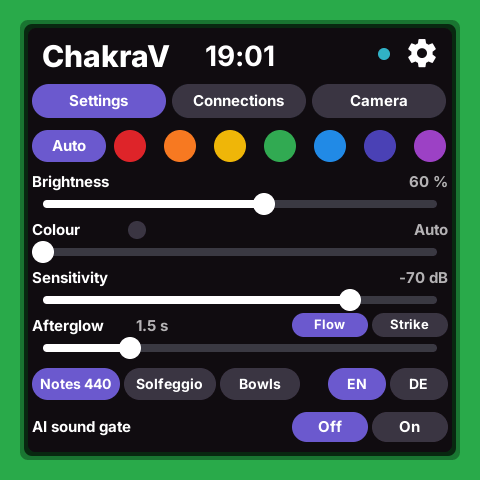
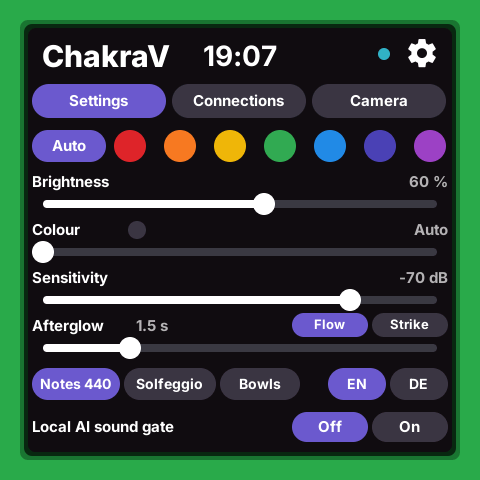
Local AI sound gate as in Chakra: the gate leads only while it speaks; README: why two apps
- From Chakra Detection 676670f, so the lamp-facing code stays the same in both apps: the
  setting is "Local AI sound gate" / "Lokaler KI-Klangfilter"; while no gate has spoken for 5 s
  the detection leads alone (GATE_ALIVE_TICKS); the lamps go towards white with a kick, and a
  strike in silence lights the last colour.
- chakra_feed.py: without the gate's venv it runs on without the gate; if the gate ends, the
  audio stays halved to 16 kHz (it used to go on at 32 kHz, a wrong pitch).
- README (EN, DE): many people in yoga and sound healing want no AI or only local AI, which is
  what Chakra is for; ChakraV is explicitly the experimental one. The light is shared code.

Changed region(s): [[0.4062, 0.0938, 0.5938, 0.1562], [0.0625, 0.875, 0.375, 0.9062]]

diff --git a/components/app_chakra/chakra_core.c b/components/app_chakra/chakra_core.c
@@ -15,6 +15,7 @@
 #define FADE_STRIKE 0.35f      // about 0.3 s
 #define FADE_AI 0.03f          // with the AI gate: about 3 s, the softest of the three
 #define AI_HOLD_TICKS 50       // a bowl verdict lets the colour change for 2 s
+#define GATE_ALIVE_TICKS 125   // no verdict for 5 s: the gate is gone and the detection leads alone again
 #define KICK_DECAY 0.90f       // the strike kick fades to a tenth in about 0.9 s
 #define KICK_WHITE 0.35f       // how far a full kick pushes the colour towards white
 #define KICK_BRIGHT 40         // and the lamps' brightness up, in percent points
@@ -48,12 +49,12 @@ static const char *const TEXT[2][S_COUNT] = {
     {"Ready", "Strike a bowl or hum", "Brightness", "Sensitivity", "Afterglow", "Notes", "not paired",
      "Home Assistant", "Hue", "Wi-Fi", "Bluetooth", "Screen lamp", "Hold: close ChakraV", "Closing ChakraV", "Bowls",
      "Strike your %s bowl", "hold the tone", "Flow", "Strike", "Settings", "Connections", "Auto", "Colour",
-     "AI sound gate", "Off", "On", "Camera", "Boxes", "Frame rate", "Source", "Waiting for camera", "Camera off",
+     "Local AI sound gate", "Off", "On", "Camera", "Boxes", "Frame rate", "Source", "Waiting for camera", "Camera off",
      "Bowl", "Other", "Quiet", "Tone", "Nothing", "Boxes off", "Cloud AI"},
     {"Bereit", "Schale anschlagen", "Helligkeit", "Empfindlichkeit", "Nachklang", "Noten",
      "nicht gekoppelt", "Home Assistant", "Hue", "WLAN", "Bluetooth", "Bildschirm-Lampe", "Halten: ChakraV schließen",
      "ChakraV wird geschlossen", "Schalen", "%s-Schale anschlagen", "Ton halten", "Fließen", "Anschlag",
-     "Einstellungen", "Anbindungen", "Auto", "Farbe", "KI-Klangfilter", "Aus", "An", "Kamera", "Boxen", "Bildrate",
+     "Einstellungen", "Anbindungen", "Auto", "Farbe", "Lokaler KI-Klangfilter", "Aus", "An", "Kamera", "Boxen", "Bildrate",
      "Quelle", "Warte auf Kamera", "Kamera aus", "Schale", "Anderes", "Still", "Ton", "Nichts", "Boxen aus",
      "Cloud-KI"},
 };
@@ -102,8 +103,11 @@ struct chakra_core {
     int bar_next;                    // the bar the next spectrum pass starts with
     uint32_t ticks, sub_tick;
     uint32_t bowl_tick;   // the tick of the AI gate's last bowl verdict (settings.ai)
+    uint32_t gate_tick;   // the tick of the gate's last verdict of any kind
+    bool gate_heard;      // whether the gate has spoken at all: without it the setting changes nothing
     bool bowl_heard;      // whether there was one at all
     float kick;           // the strike kick now, 1 at a strike, decaying to 0
+    int last_shown;       // the last chakra that had a colour: a kick in silence lights that one
     chakra_reading_t last;
     int learn;            // bowl being learned 0..6, -1 when not learning
     uint32_t learn_ms;
@@ -675,8 +679,18 @@ static void light(struct chakra_core *c)
                         c->cfg.ctx);
         return;
     }
-    const chakra_info_t *info = chakra_info(c->shown);
-    c->cfg.on_light(c->shown, info ? info->rgb : 0, bright, c->cfg.ctx);
+    const int which = c->shown >= 0 ? c->shown : c->kick > 0.0f ? c->last_shown : -1;
+    const chakra_info_t *info = chakra_info(which);
+    uint32_t rgb = info ? info->rgb : 0;
+    if (rgb && c->kick > 0.0f) {  // the lamps go towards white with the kick, as the screen does
+        uint32_t mixed = 0;
+        for (int sh = 16; sh >= 0; sh -= 8) {
+            const float v = (float)((rgb >> sh) & 0xFF);
+            mixed = (mixed << 8) | (uint32_t)(v + (255.0f - v) * KICK_WHITE * c->kick + 0.5f);
+        }
+        rgb = mixed;
+    }
+    c->cfg.on_light(which, rgb, bright, c->cfg.ctx);
 }
 
 /* A new colour choice: the background, the lamps and the settings follow at once. */
@@ -1032,10 +1046,14 @@ static void tick(esp_gsp_handle_t ui, void *ctx)
         c->sounding = sounding;
         /* With the AI gate, only a bowl-like sound may change the colour: a gong or a drum that
          * the detection reads as a tone keeps the colour and kicks the light instead. */
-        const bool ai_blocks = c->s.ai && r.chakra >= 0 &&
+        const bool gate_live = c->gate_heard && c->ticks - c->gate_tick <= GATE_ALIVE_TICKS;
+        const bool ai_blocks = c->s.ai && gate_live && r.chakra >= 0 &&
                                (!c->bowl_heard || c->ticks - c->bowl_tick > AI_HOLD_TICKS);
         if (r.chakra != c->shown && !ai_blocks) {
             const bool from_silence = c->shown < 0;
+            if (r.chakra >= 0) {
+                c->last_shown = r.chakra;
+            }
             c->shown = r.chakra;
             draw_chakra(c, r.chakra);
             c->sub_tick = c->ticks;
@@ -1072,6 +1090,8 @@ void chakra_core_set_sound(chakra_core_handle_t c, int kind, int strike)
     if (!c) {
         return;
     }
+    c->gate_tick = c->ticks;
+    c->gate_heard = true;
     c->heard_kind = kind;
     c->heard_ms = now(c) ? now(c) : 1;
     if (!c->s.ai) {
@@ -1236,6 +1256,7 @@ esp_gsp_err_t chakra_core_create(esp_gsp_handle_t ui, const chakra_core_config_t
     c->ui = ui;
     c->shown = -1;
     c->learn = -1;
+    c->last_shown = -1;
     c->tune_drawn = -1;
     if (config) {
         c->cfg = *config;

diff --git a/tools/chakra_feed.py b/tools/chakra_feed.py
@@ -149,7 +149,11 @@ def ffmpeg(args, rate=RATE):
 
 
 def start_gate(port):
-    """tools/ai_gate.py with its stdout forwarded line by line to the simulator's AI port."""
+    """tools/ai_gate.py with its stdout forwarded line by line to the simulator's AI port; None (and
+    the feeder runs on without it) when the venv is missing."""
+    if not os.path.exists(AI_VENV):
+        print(f"no AI venv at {AI_VENV}: running without the local AI sound gate", flush=True)
+        return None
     gate = subprocess.Popen([AI_VENV, os.path.join(os.path.dirname(os.path.abspath(__file__)), "ai_gate.py")],
                             stdin=subprocess.PIPE, stdout=subprocess.PIPE, stderr=subprocess.DEVNULL)
 
@@ -227,11 +231,12 @@ def main():
         else:
             src = ["-f", "avfoundation", "-i", ":0"] if a.mode == "mic" else ["-re", "-i", a.arg]
             gate = start_gate(a.ai_port) if a.ai else None
-            proc = ffmpeg(src, AI_RATE if gate else RATE)
+            halving = gate is not None  # the rate stays what ffmpeg was started with, even if the gate dies
+            proc = ffmpeg(src, AI_RATE if halving else RATE)
             print(("microphone open, Ctrl-C stops" if a.mode == "mic" else f"playing {a.arg}")
                   + (" (with the AI sound gate)" if gate else ""), flush=True)
             while True:
-                data = proc.stdout.read(HOP * 2 * (2 if gate else 1))
+                data = proc.stdout.read(HOP * 2 * (2 if halving else 1))
                 if not data:
                     break
                 if gate:
@@ -239,7 +244,8 @@ def main():
                         gate.stdin.write(data)
                         gate.stdin.flush()
                     except OSError:
-                        gate = None
+                        gate = None  # the gate ended: the app goes on with the detection alone
+                if halving:
                     data = halve(data)
                 sock.sendall(data)
     except KeyboardInterrupt:

diff --git a/components/app_chakra/ui/make_scene.py b/components/app_chakra/ui/make_scene.py
@@ -69,7 +69,7 @@ STRINGS = [
     "Wurzel", "Sakral", "Solarplexus", "Herz", "Hals", "Stirn", "Krone",
     "Ready", "Strike a bowl or hum", " ct", "+", ".", ",", "Bereit", "Schale anschlagen", "Hz", "dB", "%", " s", " · ",
     "Settings", "Einstellungen", "Connections", "Anbindungen", "Camera", "Kamera", "Auto", "Colour", "Farbe", "°",
-    "AI sound gate", "KI-Klangfilter", "Off", "On", "Aus", "An", "Boxes", "Boxen", "Frame rate", "Bildrate", "fps",
+    "Local AI sound gate", "Lokaler KI-Klangfilter", "Off", "On", "Aus", "An", "Boxes", "Boxen", "Frame rate", "Bildrate", "fps",
     "Source", "Quelle", "Cloud AI", "Cloud-KI", "beta", "cloud stub", "Mac camera", "Mac-Kamera", "No camera yet", "Noch keine Kamera", "Waiting for camera",
     "Warte auf Kamera", "Camera off", "Kamera aus", "Bowl", "Schale", "Other", "Anderes", "Quiet", "Still", "Tone",
     "Ton", "Nothing", "Nichts", "Boxes off", "Boxen aus", "Singing bowl", "Klangschale", "Tuning fork", "Stimmgabel",
@@ -272,7 +272,7 @@ def settings():
             bg_color=ON if i in (0, 3) else OFF, bind=b, bind_target="color", **ev)
         text(f"lbl_{b}", b, 0, 6, ws[i], 20, 14, BOLD, WHITE, align="center",
              sample=label if label != "Notes" else "Notes 440")
-    text("lbl_ai", "grp_page_set", lx, 337, 200, 20, 15, BOLD, WHITE, sample="AI sound gate", overflow="ellipsis")
+    text("lbl_ai", "grp_page_set", lx, 337, 200, 20, 15, BOLD, WHITE, sample="Local AI sound gate", overflow="ellipsis")
     for j, (b, lab) in enumerate([("ai_off", "Off"), ("ai_on", "On")]):
         option(b, "grp_page_set", lx + pw - 156 + j * 80, 332, 76, 30, lab, chosen=j == 0)
 

diff --git a/components/app_chakra/include/chakra_core.h b/components/app_chakra/include/chakra_core.h
@@ -112,10 +112,11 @@ esp_gsp_err_t chakra_core_destroy(chakra_core_handle_t *handle);
 void chakra_core_set_clock(chakra_core_handle_t c, const char *hhmm);
 void chakra_core_set_connection(chakra_core_handle_t c, int state);
 
-/* What the AI sound gate hears now. The heard pill always shows it; with settings.ai on it also
- * leads: a bowl-like sound lets the detection change the colour for the next AI_HOLD; anything
+/* What the local AI sound gate hears now. The heard pill always shows it; with settings.ai on it
+ * also leads: a bowl-like sound lets the detection change the colour for the next 2 s; anything
  * else keeps the colour, and an onset of it (strike = 1: a gong, a drum) kicks the light brighter
- * for about a second instead. */
+ * for about a second instead. While no gate has spoken for 5 s (none running, or it stopped), the
+ * detection leads alone, so the setting can never leave the room without colour. */
 enum { CHAKRA_SOUND_NONE, CHAKRA_SOUND_BOWL, CHAKRA_SOUND_OTHER };
 void chakra_core_set_sound(chakra_core_handle_t c, int kind, int strike);
 /** The lamp list, at most CHAKRA_LAMPS; ticks on unpaired lamps are cleared. UI task only. */

diff --git a/README.md b/README.md
@@ -11,19 +11,27 @@ German: [README.de.md](README.de.md).
 
 ## Which one?
 
-| | [Chakra Detection](https://github.com/leopardcodeai/chakra-detection) | ChakraV (this) |
-|---|---|---|
-| For | sound healing rooms where a camera is not wanted | trying out what a camera adds |
-| Senses | microphone | microphone and camera |
-| AI | optional AI sound gate | on-device AI first, cloud models with your own key to compare |
-| Maturity | tested against real recordings | experimental, v0 |
-| Privacy | no picture ever | the picture stays on the device; the cloud is off unless you switch it on |
+There are two apps, from the same code. In yoga and sound healing many people want no AI at all, or only
+AI that stays in the room: **[Chakra Detection](https://github.com/leopardcodeai/chakra-detection) is built
+for that.** It works without any AI, its one AI feature runs locally on the device, and it has no camera and
+no cloud. **ChakraV is explicitly the experimental one**: it tries what a camera and bigger models can add.
 
-If you do not need the camera, take Chakra.
+| | [Chakra Detection](https://github.com/leopardcodeai/chakra-detection) | ChakraV (this one) |
+|---|---|---|
+| Listens | microphone | microphone and camera |
+| AI | none needed; an optional local AI sound gate, on the device only | as much on the device as the ESP32-S31 runs, plus optional cloud models with your own API key |
+| For | rooms where a camera is not wanted: the classic, private choice | experiments: what can it see and mark? |
+| Maturity | tested against real recordings | v0 |
+
+If you do not need the camera, or want no AI beyond the device, take Chakra.
+
+**The light is the same in both.** Glow, strike kick, fades, the screen lamp, the colour settings and
+every lamp setting come from the same core code (`chakra_core.c`: `animate()`, `light()`, the colour and
+lamp pages), and a change to them is made in both apps.
 
 | Live view | Settings | Camera | Connections |
 |---|---|---|---|
-| ![Frame in the Heart's green, the demo scene with three marked instruments, Heart F3 174.6 Hz, heard Tone, seen Singing bowl](docs/screen_main.png) | ![Colour, brightness, sensitivity, afterglow, mapping, language, AI sound gate](docs/screen_settings.png) | ![Camera on or off, boxes on or off, 1, 2 or 4 fps, the source](docs/screen_camera.png) | ![The screen lamp ticked, the other lamps not paired](docs/screen_connections.png) |
+| ![Frame in the Heart's green, the demo scene with three marked instruments, Heart F3 174.6 Hz, heard Tone, seen Singing bowl](docs/screen_main.png) | ![Colour, brightness, sensitivity, afterglow, mapping, language, local AI sound gate](docs/screen_settings.png) | ![Camera on or off, boxes on or off, 1, 2 or 4 fps, the source](docs/screen_camera.png) | ![The screen lamp ticked, the other lamps not paired](docs/screen_connections.png) |
 
 All screenshots use the drawn demo scene (`tools/camera_live.py --demo`), never a real camera picture.
 
@@ -31,7 +39,7 @@ All screenshots use the drawn demo scene (`tools/camera_live.py --demo`), never 
 
 | Part | State |
 |---|---|
-| Chakra detection, lamps, screen lamp, AI sound gate | as in the chakra app at 2373575 |
+| Chakra detection, lamps, screen lamp, local AI sound gate | as in Chakra Detection (676670f) |
 | Frame in the chakra's colour, fading, kicked by strikes | works in the simulator |
 | Live camera view, Mac camera, 1, 2 or 4 fps | works in the simulator (`tools/camera_live.py`) |
 | Instrument boxes with label pills, up to 4 | the overlay works; the boxes come from a **stub** (`--demo-boxes`) |
@@ -46,7 +54,7 @@ sent and the seen pill says "Nothing".
 
 ## AI: on the device first, the cloud to compare
 
-1. **On the device.** As much as the ESP32-S31 can run itself, through ESP-DL: the audio gate (EfficientAT
+1. **On the device.** As much as the ESP32-S31 can run itself, through ESP-DL: the local AI sound gate (EfficientAT
    mn05, w8a16, the same one `tools/ai_gate.py` runs on the Mac) and an instrument detector such as
    ESPDet-Pico. Both are **estimates so far**: the board is on order, nothing is measured on hardware.
 2. **In the cloud, optional.** Vision and audio models with your own API key (for example OpenAI or
@@ -64,7 +72,7 @@ workspace next to this folder (`../../workspace`).
 
 ```sh
 ./sim.sh --demo     # browser preview (the address it prints): demo bowls, the drawn scene with its boxes
-./sim.sh --live     # the Mac's microphone with the AI sound gate, and the Mac's camera
+./sim.sh --live     # the Mac's microphone with the local AI sound gate, and the Mac's camera
 ./sim.sh            # the app alone; feed it yourself:
 python3 tools/chakra_feed.py tone 174.6           # one tone (Heart)
 python3 tools/camera_live.py --demo --demo-boxes  # the demo scene
@@ -85,7 +93,7 @@ the camera set to Off, ffmpeg stops, so the Mac's camera is off too.
 Our Vibe Mode launcher simulation (`tools/mosaico_launcher.py` in the Mosaico workspace, http://127.0.0.1:3300,
 not part of this repository) has a ChakraV tile:
 
-- **Live** (default): `chakra_feed.py mic --ai` (microphone and AI sound gate, colours to the screen lamp)
+- **Live** (default): `chakra_feed.py mic --ai` (microphone and the local AI sound gate, when its venv exists; colours to the screen lamp)
   and `camera_live.py` (the Mac's camera, no boxes).
 - **Demo** (`--demo chakrav`): demo bowls and `camera_live.py --demo --demo-boxes`.
 - Hold the top bar 3 s to close it, as every app.
@@ -97,7 +105,7 @@ not part of this repository) has a ChakraV tile:
 | `frame\t<path>` | a JPEG of exactly 368 x 276, read at once |
 | `boxes\tclear` then `box\t<label>\t<x>\t<y>\t<w>\t<h>\t<conf>` | a frame's marks, normalised 0..1, at most 4 |
 | `source\t<text>` | the Camera page's source line |
-| `sound\t<bowl\|other\|none>\t<strike>` | the AI sound gate (`tools/ai_gate.py`) |
+| `sound\t<bowl\|other\|none>\t<strike>` | the local AI sound gate (`tools/ai_gate.py`); while none has spoken for 5 s the detection leads alone |
 | `camera\t<on>\t<boxes>\t<fps>\t<cloud>` | back to every client: the Camera settings |
 
 ## Design

diff --git a/README.de.md b/README.de.md
@@ -11,19 +11,28 @@ sie sieht. Englische Fassung (Quelle): [README.md](README.md).
 
 ## Welche App?
 
+Es gibt zwei Apps aus demselben Code. Im Yoga und in der Klangarbeit wollen viele Menschen gar keine KI oder
+nur KI, die im Raum bleibt: **[Chakra Detection](https://github.com/leopardcodeai/chakra-detection) ist dafür
+gebaut.** Sie läuft ohne jede KI, ihre einzige KI-Funktion läuft lokal auf dem Gerät, und sie hat keine Kamera
+und keine Cloud. **ChakraV ist ausdrücklich die experimentelle**: sie probiert aus, was eine Kamera und größere
+Modelle bringen.
+
 | | [Chakra Detection](https://github.com/leopardcodeai/chakra-detection) | ChakraV (diese) |
 |---|---|---|
-| Für | Klangräume, in denen keine Kamera gewünscht ist | ausprobieren, was eine Kamera bringt |
-| Sinne | Mikrofon | Mikrofon und Kamera |
-| KI | optionaler KI-Klangfilter | zuerst KI auf dem Gerät, Cloud-Modelle mit eigenem Schlüssel zum Vergleich |
-| Reife | an echten Aufnahmen getestet | experimentell, v0 |
-| Privatsphäre | nie ein Bild | das Bild bleibt auf dem Gerät; die Cloud ist aus, bis man sie einschaltet |
+| Hört | Mikrofon | Mikrofon und Kamera |
+| KI | keine nötig; ein optionaler lokaler KI-Klangfilter, nur auf dem Gerät | so viel auf dem Gerät, wie der ESP32-S31 schafft, dazu optional Cloud-Modelle mit eigenem API-Schlüssel |
+| Für | Räume ohne Kamera: die klassische, private Wahl | Experimente: was kann sie sehen und markieren? |
+| Reife | an echten Aufnahmen getestet | v0 |
 
-Wer keine Kamera braucht, nimmt Chakra.
+Wer keine Kamera braucht oder keine KI außerhalb des Geräts will, nimmt Chakra.
+
+**Das Licht ist in beiden gleich.** Leuchten, Anschlag-Kick, Überblendungen, Bildschirm-Lampe,
+Farbeinstellungen und jede Lampeneinstellung kommen aus demselben Kerncode (`chakra_core.c`: `animate()`,
+`light()`, die Farb- und Lampenseiten), und eine Änderung daran wird in beiden Apps gemacht.
 
 | Live-Ansicht | Einstellungen | Kamera | Anbindungen |
 |---|---|---|---|
-| ![Rahmen im Grün des Herzens, Demo-Szene mit drei markierten Instrumenten](docs/screen_main.png) | ![Farbe, Helligkeit, Empfindlichkeit, Nachklang, Zuordnung, Sprache, KI-Klangfilter](docs/screen_settings.png) | ![Kamera an oder aus, Boxen an oder aus, 1, 2 oder 4 fps, Quelle](docs/screen_camera.png) | ![Bildschirm-Lampe angehakt, die anderen Lampen nicht gekoppelt](docs/screen_connections.png) |
+| ![Rahmen im Grün des Herzens, Demo-Szene mit drei markierten Instrumenten](docs/screen_main.png) | ![Farbe, Helligkeit, Empfindlichkeit, Nachklang, Zuordnung, Sprache, lokaler KI-Klangfilter](docs/screen_settings.png) | ![Kamera an oder aus, Boxen an oder aus, 1, 2 oder 4 fps, Quelle](docs/screen_camera.png) | ![Bildschirm-Lampe angehakt, die anderen Lampen nicht gekoppelt](docs/screen_connections.png) |
 
 Alle Bildschirmfotos zeigen die gezeichnete Demo-Szene (`tools/camera_live.py --demo`), nie ein echtes Kamerabild.
 
@@ -31,7 +40,7 @@ Alle Bildschirmfotos zeigen die gezeichnete Demo-Szene (`tools/camera_live.py --
 
 | Teil | Stand |
 |---|---|
-| Chakra-Erkennung, Lampen, Bildschirm-Lampe, KI-Klangfilter | wie in der Chakra-App bei 2373575 |
+| Chakra-Erkennung, Lampen, Bildschirm-Lampe, lokaler KI-Klangfilter | wie in Chakra Detection (676670f) |
 | Rahmen in der Chakra-Farbe, mit Überblendung und Kick beim Anschlag | läuft im Simulator |
 | Live-Kamerabild, Mac-Kamera, 1, 2 oder 4 fps | läuft im Simulator (`tools/camera_live.py`) |
 | Instrument-Boxen mit Beschriftung, bis zu 4 | die Darstellung läuft; die Boxen kommen von einem **Platzhalter** (`--demo-boxes`) |
@@ -46,7 +55,7 @@ Ohne den Schalter kommen keine Boxen, und die Pille "gesehen" sagt "Nichts".
 
 ## KI: zuerst auf dem Gerät, die Cloud zum Vergleich
 
-1. **Auf dem Gerät.** So viel, wie der ESP32-S31 selbst rechnen kann, über ESP-DL: der Klangfilter
+1. **Auf dem Gerät.** So viel, wie der ESP32-S31 selbst rechnen kann, über ESP-DL: der lokale KI-Klangfilter
    (EfficientAT mn05, w8a16, derselbe, den `tools/ai_gate.py` auf dem Mac nutzt) und ein Instrumentendetektor
    wie ESPDet-Pico. Beides sind **bisher Schätzungen**: das Board ist bestellt, auf Hardware ist nichts gemessen.
 2. **In der Cloud, optional.** Bild- und Audiomodelle mit eigenem API-Schlüssel (zum Beispiel OpenAI oder
@@ -64,7 +73,7 @@ Mosaico-Workspace neben diesem Ordner (`../../workspace`).
 
 ```sh
 ./sim.sh --demo     # Browser-Vorschau (die ausgegebene Adresse): Demo-Schalen, die gezeichnete Szene mit Boxen
-./sim.sh --live     # Mikrofon des Macs mit KI-Klangfilter und die Kamera des Macs
+./sim.sh --live     # Mikrofon des Macs mit lokalem KI-Klangfilter und die Kamera des Macs
 ./sim.sh            # die App allein; selbst füttern:
 python3 tools/chakra_feed.py tone 174.6           # ein Ton (Herz)
 python3 tools/camera_live.py --demo --demo-boxes  # die Demo-Szene
@@ -85,7 +94,7 @@ gelöscht wird. Steht die Kamera auf Aus, hält ffmpeg an, und die Kamera des Ma
 Unsere Vibe-Mode-Launcher-Simulation (`tools/mosaico_launcher.py` im Mosaico-Workspace, http://127.0.0.1:3300,
 nicht Teil dieses Repositorys) hat eine Kachel ChakraV:
 
-- **Live** (Standard): `chakra_feed.py mic --ai` (Mikrofon und KI-Klangfilter, Farben an die
+- **Live** (Standard): `chakra_feed.py mic --ai` (Mikrofon und lokaler KI-Klangfilter, wenn seine venv da ist; Farben an die
   Bildschirm-Lampe) und `camera_live.py` (Kamera des Macs, ohne Boxen).
 - **Demo** (`--demo chakrav`): Demo-Schalen und `camera_live.py --demo --demo-boxes`.
 - Zum Schließen die obere Leiste 3 s halten, wie in jeder App.
